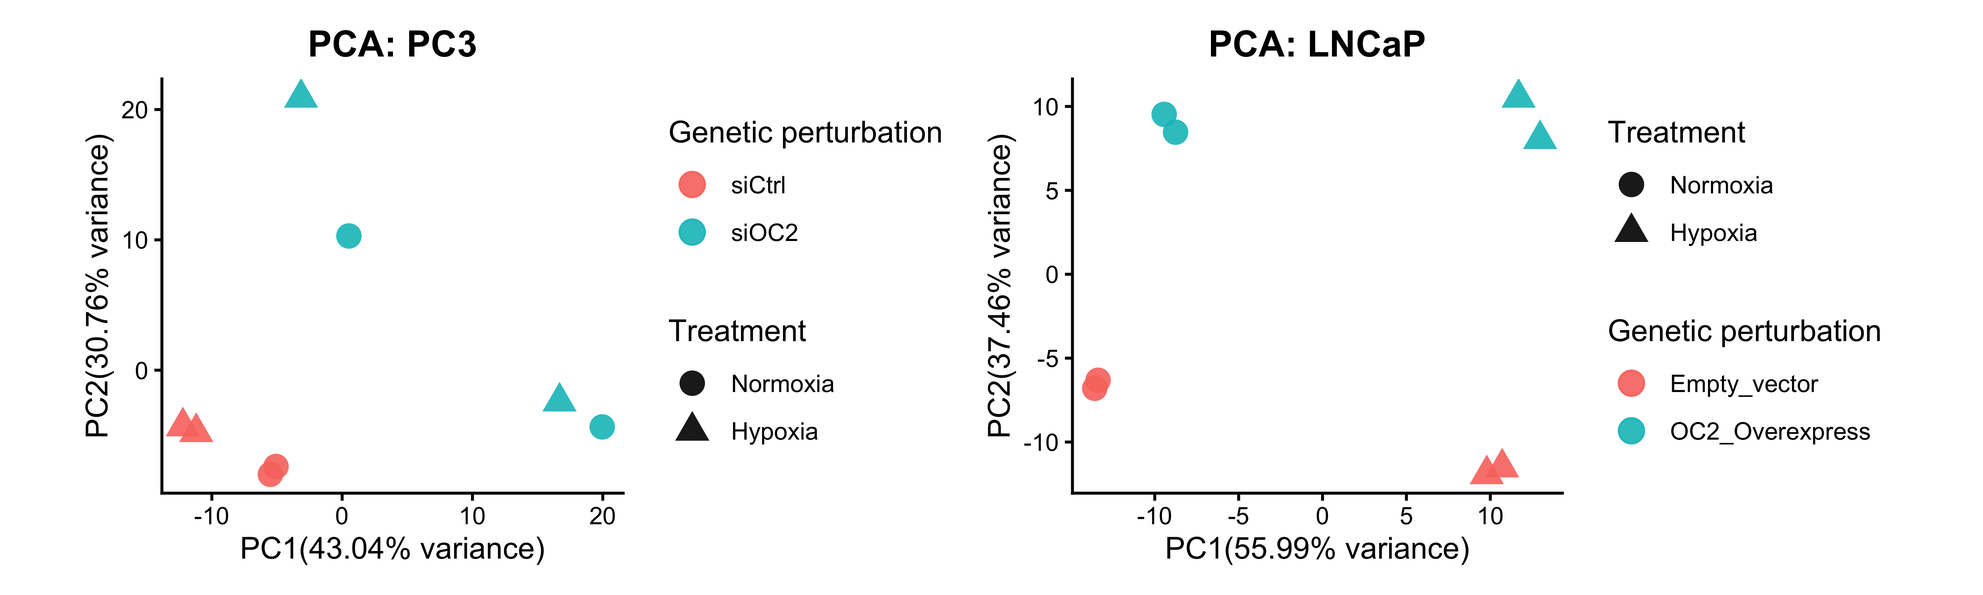
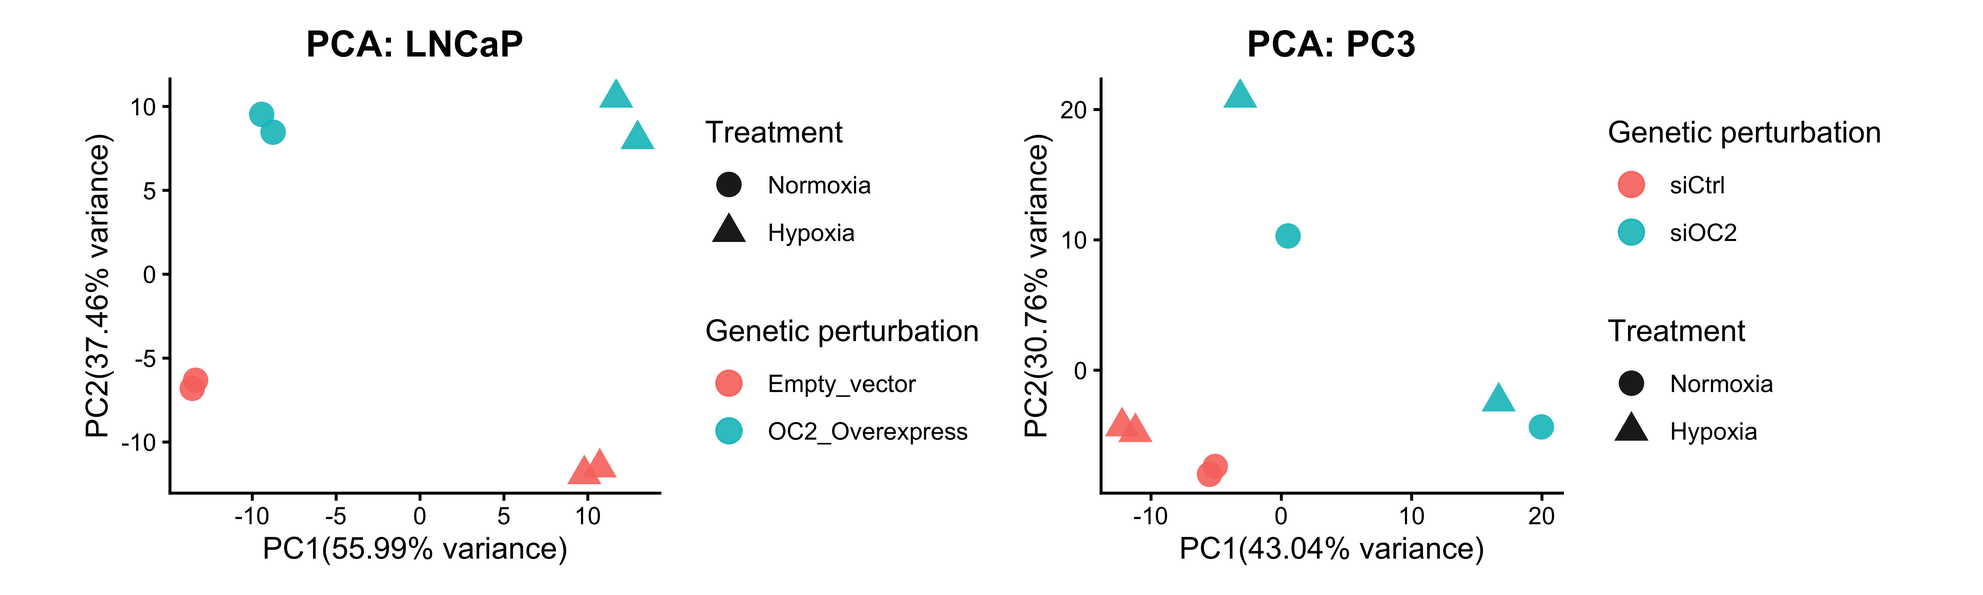
"results and volcano plot"

diff --git a/DGEs_Deseq2.html b/DGEs_Deseq2.html
@@ -7,7 +7,7 @@
 <meta name="viewport" content="width=device-width, initial-scale=1.0, user-scalable=yes">
 
 <meta name="author" content="Nitin Beesabathuni">
-<meta name="dcterms.date" content="2026-01-26">
+<meta name="dcterms.date" content="2026-01-28">
 
 <title>Differential Gene expression analysis using Deseq2</title>
 <style>
@@ -110,7 +110,7 @@ pre > code.sourceCode > span > a:first-child::before { text-decoration: underlin
     <div>
     <div class="quarto-title-meta-heading">Published</div>
     <div class="quarto-title-meta-contents">
-      <p class="date">January 26, 2026</p>
+      <p class="date">January 28, 2026</p>
     </div>
   </div>
   
@@ -140,13 +140,14 @@ pre > code.sourceCode > span > a:first-child::before { text-decoration: underlin
 <span id="cb1-12"><a href="#cb1-12" aria-hidden="true" tabindex="-1"></a><span class="fu">library</span>(RColorBrewer)</span>
 <span id="cb1-13"><a href="#cb1-13" aria-hidden="true" tabindex="-1"></a><span class="fu">library</span>(patchwork)</span>
 <span id="cb1-14"><a href="#cb1-14" aria-hidden="true" tabindex="-1"></a><span class="fu">library</span>(ggplotify)</span>
-<span id="cb1-15"><a href="#cb1-15" aria-hidden="true" tabindex="-1"></a><span class="co"># Resolve namespace conflicts</span></span>
-<span id="cb1-16"><a href="#cb1-16" aria-hidden="true" tabindex="-1"></a><span class="fu">conflict_prefer</span>(<span class="st">"select"</span>, <span class="st">"dplyr"</span>)</span>
-<span id="cb1-17"><a href="#cb1-17" aria-hidden="true" tabindex="-1"></a><span class="fu">conflict_prefer</span>(<span class="st">"filter"</span>, <span class="st">"dplyr"</span>)</span>
-<span id="cb1-18"><a href="#cb1-18" aria-hidden="true" tabindex="-1"></a><span class="fu">conflicts_prefer</span>(generics<span class="sc">::</span>setdiff)</span>
-<span id="cb1-19"><a href="#cb1-19" aria-hidden="true" tabindex="-1"></a></span>
-<span id="cb1-20"><a href="#cb1-20" aria-hidden="true" tabindex="-1"></a><span class="co">#loading functions</span></span>
-<span id="cb1-21"><a href="#cb1-21" aria-hidden="true" tabindex="-1"></a><span class="fu">source</span>(<span class="st">"functions.R"</span>)</span></code></pre></div><button title="Copy to Clipboard" class="code-copy-button"><i class="bi"></i></button></div>
+<span id="cb1-15"><a href="#cb1-15" aria-hidden="true" tabindex="-1"></a><span class="fu">library</span>(patchwork)</span>
+<span id="cb1-16"><a href="#cb1-16" aria-hidden="true" tabindex="-1"></a><span class="co"># Resolve namespace conflicts</span></span>
+<span id="cb1-17"><a href="#cb1-17" aria-hidden="true" tabindex="-1"></a><span class="fu">conflict_prefer</span>(<span class="st">"select"</span>, <span class="st">"dplyr"</span>)</span>
+<span id="cb1-18"><a href="#cb1-18" aria-hidden="true" tabindex="-1"></a><span class="fu">conflict_prefer</span>(<span class="st">"filter"</span>, <span class="st">"dplyr"</span>)</span>
+<span id="cb1-19"><a href="#cb1-19" aria-hidden="true" tabindex="-1"></a><span class="fu">conflicts_prefer</span>(generics<span class="sc">::</span>setdiff)</span>
+<span id="cb1-20"><a href="#cb1-20" aria-hidden="true" tabindex="-1"></a></span>
+<span id="cb1-21"><a href="#cb1-21" aria-hidden="true" tabindex="-1"></a><span class="co">#loading functions</span></span>
+<span id="cb1-22"><a href="#cb1-22" aria-hidden="true" tabindex="-1"></a><span class="fu">source</span>(<span class="st">"functions.R"</span>)</span></code></pre></div><button title="Copy to Clipboard" class="code-copy-button"><i class="bi"></i></button></div>
 </details>
 </div>
 <section id="data-import-and-metadata-preparation" class="level2">
@@ -231,7 +232,7 @@ pre > code.sourceCode > span > a:first-child::before { text-decoration: underlin
 <details class="code-fold">
 <summary>Code</summary>
 <div class="code-copy-outer-scaffold"><div class="sourceCode cell-code" id="cb7"><pre class="sourceCode r code-with-copy"><code class="sourceCode r"><span id="cb7-1"><a href="#cb7-1" aria-hidden="true" tabindex="-1"></a><span class="co">#PCA for both the cell lines across two treatments and genetic perturbations. </span></span>
-<span id="cb7-2"><a href="#cb7-2" aria-hidden="true" tabindex="-1"></a>pc3_QC<span class="sc">$</span>pca <span class="sc">+</span> lncap_QC<span class="sc">$</span>pca</span></code></pre></div><button title="Copy to Clipboard" class="code-copy-button"><i class="bi"></i></button></div>
+<span id="cb7-2"><a href="#cb7-2" aria-hidden="true" tabindex="-1"></a>lncap_QC<span class="sc">$</span>pca<span class="sc">+</span> pc3_QC<span class="sc">$</span>pca </span></code></pre></div><button title="Copy to Clipboard" class="code-copy-button"><i class="bi"></i></button></div>
 </details>
 <div class="cell-output-display">
 <div>
@@ -241,28 +242,220 @@ pre > code.sourceCode > span > a:first-child::before { text-decoration: underlin
 </div>
 </div>
 </div>
-<p>PC1 explains ~56% of the variance which differentiates treatment effects. While, PC2 explains about ~37% and explains the effect of over expression of OC2. As expected, the replicates cluster closely indicating no extreme outlier samples or technical artifacts.</p>
+<p>For LNCaP cells, we nicley see the four cluster based on the treatment-genetic perturbation. Moreover, PC1 explains ~56% of the variance which differentiates treatment effects. While, PC2 explains about ~37% and explains the effect of over expression of OC2. So for these samples, we dont see any extreme outlier samples or technical artifacts.</p>
+<p>For PC3 samples, we see an interesting behavior. We see a strong separation between siCtrl and siOC2 samples but within siOC2 samples, we see two separate clusters. We can also see the siOC2 samples cluster together regardless of the treatment conditions. Lets examine the heatmap to see why there are two clusters within siOC2 samples.</p>
 <div class="cell">
 <details class="code-fold">
 <summary>Code</summary>
-<div class="code-copy-outer-scaffold"><div class="sourceCode cell-code" id="cb8"><pre class="sourceCode r code-with-copy"><code class="sourceCode r"><span id="cb8-1"><a href="#cb8-1" aria-hidden="true" tabindex="-1"></a><span class="co">#PCA for both the cell lines across two treatments and genetic perturbations. </span></span>
-<span id="cb8-2"><a href="#cb8-2" aria-hidden="true" tabindex="-1"></a>pc3_QC<span class="sc">$</span>heatmap <span class="sc">+</span> lncap_QC<span class="sc">$</span>heatmap</span></code></pre></div><button title="Copy to Clipboard" class="code-copy-button"><i class="bi"></i></button></div>
+<div class="code-copy-outer-scaffold"><div class="sourceCode cell-code" id="cb8"><pre class="sourceCode r code-with-copy"><code class="sourceCode r"><span id="cb8-1"><a href="#cb8-1" aria-hidden="true" tabindex="-1"></a><span class="co">#heatmap for pc3 cells</span></span>
+<span id="cb8-2"><a href="#cb8-2" aria-hidden="true" tabindex="-1"></a>pc3_QC<span class="sc">$</span>heatmap</span></code></pre></div><button title="Copy to Clipboard" class="code-copy-button"><i class="bi"></i></button></div>
 </details>
 <div class="cell-output-display">
 <div>
 <figure class="figure">
-<p><img src="DGEs_Deseq2_files/figure-html/unnamed-chunk-5-1.png" class="img-fluid figure-img" width="4500"></p>
+<p><img src="DGEs_Deseq2_files/figure-html/unnamed-chunk-5-1.png" class="img-fluid figure-img" width="2400"></p>
 </figure>
 </div>
 </div>
 </div>
+<p>Based on the heatmap, we see another latent variable- the siRNA used. We can see the siRNA specific samples cluster more strongly together regardless of the treatment. Theoretically, if the treatment effects are stronger we would expect the siRNA1 and siRNA2 to cluster together based on the treatment. However, we see a stronger correlation between the same siRNA’s used for knockdown of OC2 regardless of the treatment. This could perhaps be a result of knockdown of OC2 which rescues some aspects of hypoxia driven cellular changes (not fully). Moreover, we also see the siRNA’s under normoxia cluster separately so there could be some off target activity of the specific siRNA used to knockdown OC2.</p>
 <div class="cell">
 <details class="code-fold">
 <summary>Code</summary>
-<div class="code-copy-outer-scaffold"><div class="sourceCode cell-code" id="cb9"><pre class="sourceCode r code-with-copy"><code class="sourceCode r"><span id="cb9-1"><a href="#cb9-1" aria-hidden="true" tabindex="-1"></a><span class="co">#dds_lncap &lt;- DESeq(dds_lncap)</span></span></code></pre></div><button title="Copy to Clipboard" class="code-copy-button"><i class="bi"></i></button></div>
+<div class="code-copy-outer-scaffold"><div class="sourceCode cell-code" id="cb9"><pre class="sourceCode r code-with-copy"><code class="sourceCode r"><span id="cb9-1"><a href="#cb9-1" aria-hidden="true" tabindex="-1"></a><span class="co">#heatmap for lncap cells</span></span>
+<span id="cb9-2"><a href="#cb9-2" aria-hidden="true" tabindex="-1"></a>lncap_QC<span class="sc">$</span>heatmap</span></code></pre></div><button title="Copy to Clipboard" class="code-copy-button"><i class="bi"></i></button></div>
+</details>
+<div class="cell-output-display">
+<div>
+<figure class="figure">
+<p><img src="DGEs_Deseq2_files/figure-html/unnamed-chunk-6-1.png" class="img-fluid figure-img" width="2400"></p>
+</figure>
+</div>
+</div>
+</div>
+<p>For LNCaP cells, the replicates cluster together based on the treatment and genetic perturbation as expected.</p>
+<div class="cell">
+<details class="code-fold">
+<summary>Code</summary>
+<div class="code-copy-outer-scaffold"><div class="sourceCode cell-code" id="cb10"><pre class="sourceCode r code-with-copy"><code class="sourceCode r"><span id="cb10-1"><a href="#cb10-1" aria-hidden="true" tabindex="-1"></a><span class="co">#lets perform differential expression analysis using deseq2 to ask various questions. </span></span>
+<span id="cb10-2"><a href="#cb10-2" aria-hidden="true" tabindex="-1"></a><span class="co">#releveling to set reference for treatment and perturbation</span></span>
+<span id="cb10-3"><a href="#cb10-3" aria-hidden="true" tabindex="-1"></a>dds_pc3<span class="sc">$</span>Treatment <span class="ot">&lt;-</span> <span class="fu">relevel</span>(dds_pc3<span class="sc">$</span>Treatment, <span class="at">ref =</span> <span class="st">"Normoxia"</span>)</span>
+<span id="cb10-4"><a href="#cb10-4" aria-hidden="true" tabindex="-1"></a>dds_pc3<span class="sc">$</span>Genetic_perturbation <span class="ot">&lt;-</span> <span class="fu">relevel</span>(dds_pc3<span class="sc">$</span>Genetic_perturbation, <span class="at">ref =</span> <span class="st">"siCtrl"</span>)</span>
+<span id="cb10-5"><a href="#cb10-5" aria-hidden="true" tabindex="-1"></a></span>
+<span id="cb10-6"><a href="#cb10-6" aria-hidden="true" tabindex="-1"></a>dds_lncap<span class="sc">$</span>Treatment <span class="ot">&lt;-</span> <span class="fu">relevel</span>(dds_lncap<span class="sc">$</span>Treatment, <span class="at">ref =</span> <span class="st">"Normoxia"</span>)</span>
+<span id="cb10-7"><a href="#cb10-7" aria-hidden="true" tabindex="-1"></a>dds_lncap<span class="sc">$</span>Genetic_perturbation <span class="ot">&lt;-</span> <span class="fu">relevel</span>(dds_lncap<span class="sc">$</span>Genetic_perturbation, <span class="at">ref =</span> <span class="st">"Empty_vector"</span>)</span>
+<span id="cb10-8"><a href="#cb10-8" aria-hidden="true" tabindex="-1"></a></span>
+<span id="cb10-9"><a href="#cb10-9" aria-hidden="true" tabindex="-1"></a>dds_lncap <span class="ot">&lt;-</span> <span class="fu">DESeq</span>(dds_lncap)</span></code></pre></div><button title="Copy to Clipboard" class="code-copy-button"><i class="bi"></i></button></div>
+</details>
+<div class="cell-output cell-output-stderr">
+<pre><code>estimating size factors</code></pre>
+</div>
+<div class="cell-output cell-output-stderr">
+<pre><code>estimating dispersions</code></pre>
+</div>
+<div class="cell-output cell-output-stderr">
+<pre><code>gene-wise dispersion estimates</code></pre>
+</div>
+<div class="cell-output cell-output-stderr">
+<pre><code>mean-dispersion relationship</code></pre>
+</div>
+<div class="cell-output cell-output-stderr">
+<pre><code>final dispersion estimates</code></pre>
+</div>
+<div class="cell-output cell-output-stderr">
+<pre><code>fitting model and testing</code></pre>
+</div>
+<details class="code-fold">
+<summary>Code</summary>
+<div class="code-copy-outer-scaffold"><div class="sourceCode cell-code" id="cb17"><pre class="sourceCode r code-with-copy"><code class="sourceCode r"><span id="cb17-1"><a href="#cb17-1" aria-hidden="true" tabindex="-1"></a>dds_pc3<span class="ot">&lt;-</span><span class="fu">DESeq</span>(dds_pc3)</span></code></pre></div><button title="Copy to Clipboard" class="code-copy-button"><i class="bi"></i></button></div>
+</details>
+<div class="cell-output cell-output-stderr">
+<pre><code>estimating size factors</code></pre>
+</div>
+<div class="cell-output cell-output-stderr">
+<pre><code>estimating dispersions</code></pre>
+</div>
+<div class="cell-output cell-output-stderr">
+<pre><code>gene-wise dispersion estimates</code></pre>
+</div>
+<div class="cell-output cell-output-stderr">
+<pre><code>mean-dispersion relationship</code></pre>
+</div>
+<div class="cell-output cell-output-stderr">
+<pre><code>final dispersion estimates</code></pre>
+</div>
+<div class="cell-output cell-output-stderr">
+<pre><code>fitting model and testing</code></pre>
+</div>
+</div>
+<p>You can see various steps that are performed by this function. Briefly,</p>
+<p>1) We normalize each sample with their respective size factors calculated by using median of ratios method.</p>
+<p>2) As the</p>
+<div class="cell">
+<details class="code-fold">
+<summary>Code</summary>
+<div class="code-copy-outer-scaffold"><div class="sourceCode cell-code" id="cb24"><pre class="sourceCode r code-with-copy"><code class="sourceCode r"><span id="cb24-1"><a href="#cb24-1" aria-hidden="true" tabindex="-1"></a><span class="co"># Set the graphics device to 1 row and 2 columns</span></span>
+<span id="cb24-2"><a href="#cb24-2" aria-hidden="true" tabindex="-1"></a><span class="fu">par</span>(<span class="at">mfrow =</span> <span class="fu">c</span>(<span class="dv">1</span>, <span class="dv">2</span>))</span>
+<span id="cb24-3"><a href="#cb24-3" aria-hidden="true" tabindex="-1"></a></span>
+<span id="cb24-4"><a href="#cb24-4" aria-hidden="true" tabindex="-1"></a><span class="co"># Plot for LNCaP with a custom title</span></span>
+<span id="cb24-5"><a href="#cb24-5" aria-hidden="true" tabindex="-1"></a><span class="fu">plotDispEsts</span>(dds_lncap, <span class="at">main =</span> <span class="st">"Dispersion Estimates: LNCaP"</span>)</span>
+<span id="cb24-6"><a href="#cb24-6" aria-hidden="true" tabindex="-1"></a></span>
+<span id="cb24-7"><a href="#cb24-7" aria-hidden="true" tabindex="-1"></a><span class="co"># Plot for PC3 with a custom title</span></span>
+<span id="cb24-8"><a href="#cb24-8" aria-hidden="true" tabindex="-1"></a><span class="fu">plotDispEsts</span>(dds_pc3, <span class="at">main =</span> <span class="st">"Dispersion Estimates: PC3"</span>)</span></code></pre></div><button title="Copy to Clipboard" class="code-copy-button"><i class="bi"></i></button></div>
+</details>
+<div class="cell-output-display">
+<div>
+<figure class="figure">
+<p><img src="DGEs_Deseq2_files/figure-html/unnamed-chunk-8-1.png" class="img-fluid figure-img" width="3600"></p>
+</figure>
+</div>
+</div>
+<details class="code-fold">
+<summary>Code</summary>
+<div class="code-copy-outer-scaffold"><div class="sourceCode cell-code" id="cb25"><pre class="sourceCode r code-with-copy"><code class="sourceCode r"><span id="cb25-1"><a href="#cb25-1" aria-hidden="true" tabindex="-1"></a><span class="co"># Reset the graphics device to default (1x1)</span></span>
+<span id="cb25-2"><a href="#cb25-2" aria-hidden="true" tabindex="-1"></a><span class="fu">par</span>(<span class="at">mfrow =</span> <span class="fu">c</span>(<span class="dv">1</span>, <span class="dv">1</span>))</span></code></pre></div><button title="Copy to Clipboard" class="code-copy-button"><i class="bi"></i></button></div>
 </details>
 </div>
-<p><code>{#its important to normaize the samples based on their seqeuncing depth and RNA composition} #Deseq2 uses median of ratio normalization method. It first calculates size factors for each sample and normalizes the counts for each sample.</code></p>
+<p>The fit looks good. We can see the fitted (Red) smoothly follows the data points and shrinkage in dispersion (blue dots) towards fitted curve nicely. Also, notice a nice downward trend in dispersion as mean increases. You can observe some final dispersion and estimated values perfectly overlap these are genes that are shrunk as they are too far away from the fitted line.</p>
+<div class="cell">
+<details class="code-fold">
+<summary>Code</summary>
+<div class="code-copy-outer-scaffold"><div class="sourceCode cell-code" id="cb26"><pre class="sourceCode r code-with-copy"><code class="sourceCode r"><span id="cb26-1"><a href="#cb26-1" aria-hidden="true" tabindex="-1"></a><span class="co">#lets understand the genes that are differential expressed under hypoxia condition. </span></span>
+<span id="cb26-2"><a href="#cb26-2" aria-hidden="true" tabindex="-1"></a><span class="co"># PC3: Hypoxia vs Normoxia (within siCtrl)</span></span>
+<span id="cb26-3"><a href="#cb26-3" aria-hidden="true" tabindex="-1"></a>res_pc3_hypoxia <span class="ot">&lt;-</span> <span class="fu">results</span>(dds_pc3, </span>
+<span id="cb26-4"><a href="#cb26-4" aria-hidden="true" tabindex="-1"></a>                           <span class="at">contrast =</span> <span class="fu">c</span>(<span class="st">"Treatment"</span>, <span class="st">"Hypoxia"</span>, <span class="st">"Normoxia"</span>))</span>
+<span id="cb26-5"><a href="#cb26-5" aria-hidden="true" tabindex="-1"></a></span>
+<span id="cb26-6"><a href="#cb26-6" aria-hidden="true" tabindex="-1"></a><span class="co"># LNCaP: Hypoxia vs Normoxia (within empty vector)</span></span>
+<span id="cb26-7"><a href="#cb26-7" aria-hidden="true" tabindex="-1"></a>res_lncap_hypoxia <span class="ot">&lt;-</span> <span class="fu">results</span>(dds_lncap, </span>
+<span id="cb26-8"><a href="#cb26-8" aria-hidden="true" tabindex="-1"></a>                             <span class="at">contrast =</span> <span class="fu">c</span>(<span class="st">"Treatment"</span>, <span class="st">"Hypoxia"</span>, <span class="st">"Normoxia"</span>))</span></code></pre></div><button title="Copy to Clipboard" class="code-copy-button"><i class="bi"></i></button></div>
+</details>
+</div>
+<div class="cell">
+<details class="code-fold">
+<summary>Code</summary>
+<div class="code-copy-outer-scaffold"><div class="sourceCode cell-code" id="cb27"><pre class="sourceCode r code-with-copy"><code class="sourceCode r"><span id="cb27-1"><a href="#cb27-1" aria-hidden="true" tabindex="-1"></a><span class="fu">library</span>(EnhancedVolcano)</span></code></pre></div><button title="Copy to Clipboard" class="code-copy-button"><i class="bi"></i></button></div>
+</details>
+<div class="cell-output cell-output-stderr">
+<pre><code>Loading required package: ggrepel</code></pre>
+</div>
+<details class="code-fold">
+<summary>Code</summary>
+<div class="code-copy-outer-scaffold"><div class="sourceCode cell-code" id="cb29"><pre class="sourceCode r code-with-copy"><code class="sourceCode r"><span id="cb29-1"><a href="#cb29-1" aria-hidden="true" tabindex="-1"></a><span class="co"># Function to generate consistent volcano plots</span></span>
+<span id="cb29-2"><a href="#cb29-2" aria-hidden="true" tabindex="-1"></a>plot_volcano <span class="ot">&lt;-</span> <span class="cf">function</span>(res, title_str) {</span>
+<span id="cb29-3"><a href="#cb29-3" aria-hidden="true" tabindex="-1"></a>  <span class="co"># Convert to data frame to handle logical indexing</span></span>
+<span id="cb29-4"><a href="#cb29-4" aria-hidden="true" tabindex="-1"></a>  df <span class="ot">&lt;-</span> <span class="fu">as.data.frame</span>(res)</span>
+<span id="cb29-5"><a href="#cb29-5" aria-hidden="true" tabindex="-1"></a>  </span>
+<span id="cb29-6"><a href="#cb29-6" aria-hidden="true" tabindex="-1"></a>  <span class="co"># Create a custom color vector</span></span>
+<span id="cb29-7"><a href="#cb29-7" aria-hidden="true" tabindex="-1"></a>  keyvals <span class="ot">&lt;-</span> <span class="fu">ifelse</span>(</span>
+<span id="cb29-8"><a href="#cb29-8" aria-hidden="true" tabindex="-1"></a>    df<span class="sc">$</span>padj <span class="sc">&lt;</span> <span class="fl">0.05</span> <span class="sc">&amp;</span> df<span class="sc">$</span>log2FoldChange <span class="sc">&gt;</span> <span class="fl">1.0</span>, <span class="st">'red3'</span>,</span>
+<span id="cb29-9"><a href="#cb29-9" aria-hidden="true" tabindex="-1"></a>      <span class="fu">ifelse</span>(df<span class="sc">$</span>padj <span class="sc">&lt;</span> <span class="fl">0.05</span> <span class="sc">&amp;</span> df<span class="sc">$</span>log2FoldChange <span class="sc">&lt;</span> <span class="sc">-</span><span class="fl">1.0</span>, <span class="st">'royalblue'</span>,</span>
+<span id="cb29-10"><a href="#cb29-10" aria-hidden="true" tabindex="-1"></a>        <span class="st">'grey'</span>))</span>
+<span id="cb29-11"><a href="#cb29-11" aria-hidden="true" tabindex="-1"></a>  <span class="co">#Convert any remaining NAs to 'grey'</span></span>
+<span id="cb29-12"><a href="#cb29-12" aria-hidden="true" tabindex="-1"></a>  keyvals[<span class="fu">is.na</span>(keyvals)] <span class="ot">&lt;-</span> <span class="st">'grey'</span></span>
+<span id="cb29-13"><a href="#cb29-13" aria-hidden="true" tabindex="-1"></a>  </span>
+<span id="cb29-14"><a href="#cb29-14" aria-hidden="true" tabindex="-1"></a>  <span class="co"># Ensure the vector has names for the legend</span></span>
+<span id="cb29-15"><a href="#cb29-15" aria-hidden="true" tabindex="-1"></a>  <span class="fu">names</span>(keyvals)[keyvals <span class="sc">==</span> <span class="st">'red3'</span>] <span class="ot">&lt;-</span> <span class="st">'Upregulated'</span></span>
+<span id="cb29-16"><a href="#cb29-16" aria-hidden="true" tabindex="-1"></a>  <span class="fu">names</span>(keyvals)[keyvals <span class="sc">==</span> <span class="st">'grey'</span>] <span class="ot">&lt;-</span> <span class="st">'NS / Low Fold'</span></span>
+<span id="cb29-17"><a href="#cb29-17" aria-hidden="true" tabindex="-1"></a>  <span class="fu">names</span>(keyvals)[keyvals <span class="sc">==</span> <span class="st">'royalblue'</span>] <span class="ot">&lt;-</span> <span class="st">'Downregulated'</span></span>
+<span id="cb29-18"><a href="#cb29-18" aria-hidden="true" tabindex="-1"></a></span>
+<span id="cb29-19"><a href="#cb29-19" aria-hidden="true" tabindex="-1"></a>  <span class="fu">EnhancedVolcano</span>(res,</span>
+<span id="cb29-20"><a href="#cb29-20" aria-hidden="true" tabindex="-1"></a>    <span class="at">lab =</span> <span class="fu">rownames</span>(res),</span>
+<span id="cb29-21"><a href="#cb29-21" aria-hidden="true" tabindex="-1"></a>    <span class="at">x =</span> <span class="st">'log2FoldChange'</span>,</span>
+<span id="cb29-22"><a href="#cb29-22" aria-hidden="true" tabindex="-1"></a>    <span class="at">y =</span> <span class="st">'padj'</span>, </span>
+<span id="cb29-23"><a href="#cb29-23" aria-hidden="true" tabindex="-1"></a>    <span class="at">title =</span> title_str,</span>
+<span id="cb29-24"><a href="#cb29-24" aria-hidden="true" tabindex="-1"></a>    <span class="at">subtitle =</span> <span class="cn">NULL</span>,      <span class="co"># Removes the "EnhancedVolcano" subtitle</span></span>
+<span id="cb29-25"><a href="#cb29-25" aria-hidden="true" tabindex="-1"></a>    <span class="at">caption =</span> <span class="cn">NULL</span>,       <span class="co"># Removes the "total variables" footer</span></span>
+<span id="cb29-26"><a href="#cb29-26" aria-hidden="true" tabindex="-1"></a>    <span class="at">ylab =</span> <span class="fu">bquote</span>(<span class="sc">~-</span>Log[<span class="dv">10</span>] <span class="sc">~</span> <span class="fu">italic</span>(padj)), <span class="co"># Corrects the axis label</span></span>
+<span id="cb29-27"><a href="#cb29-27" aria-hidden="true" tabindex="-1"></a>    <span class="at">pCutoff =</span> <span class="fl">0.05</span>,</span>
+<span id="cb29-28"><a href="#cb29-28" aria-hidden="true" tabindex="-1"></a>    <span class="at">FCcutoff =</span> <span class="fl">1.0</span>, </span>
+<span id="cb29-29"><a href="#cb29-29" aria-hidden="true" tabindex="-1"></a>    <span class="at">colCustom =</span> keyvals, <span class="co"># Use the custom color vector</span></span>
+<span id="cb29-30"><a href="#cb29-30" aria-hidden="true" tabindex="-1"></a>    <span class="at">labSize =</span> <span class="fl">4.0</span>,</span>
+<span id="cb29-31"><a href="#cb29-31" aria-hidden="true" tabindex="-1"></a>    <span class="at">colAlpha =</span> <span class="fl">0.6</span>,</span>
+<span id="cb29-32"><a href="#cb29-32" aria-hidden="true" tabindex="-1"></a>    <span class="at">legendPosition =</span> <span class="st">'right'</span>,</span>
+<span id="cb29-33"><a href="#cb29-33" aria-hidden="true" tabindex="-1"></a>    <span class="at">drawConnectors =</span> <span class="cn">TRUE</span>,</span>
+<span id="cb29-34"><a href="#cb29-34" aria-hidden="true" tabindex="-1"></a>    <span class="at">widthConnectors =</span> <span class="fl">0.5</span></span>
+<span id="cb29-35"><a href="#cb29-35" aria-hidden="true" tabindex="-1"></a>  )</span>
+<span id="cb29-36"><a href="#cb29-36" aria-hidden="true" tabindex="-1"></a>}</span>
+<span id="cb29-37"><a href="#cb29-37" aria-hidden="true" tabindex="-1"></a></span>
+<span id="cb29-38"><a href="#cb29-38" aria-hidden="true" tabindex="-1"></a><span class="co"># Generate plots for both cell lines</span></span>
+<span id="cb29-39"><a href="#cb29-39" aria-hidden="true" tabindex="-1"></a>v_pc3 <span class="ot">&lt;-</span> <span class="fu">plot_volcano</span>(res_pc3_hypoxia, <span class="st">"PC3: Hypoxia vs Normoxia (siCtrl)"</span>)</span></code></pre></div><button title="Copy to Clipboard" class="code-copy-button"><i class="bi"></i></button></div>
+</details>
+<div class="cell-output cell-output-stderr">
+<pre><code>Warning: Using `size` aesthetic for lines was deprecated in ggplot2 3.4.0.
+ℹ Please use `linewidth` instead.
+ℹ The deprecated feature was likely used in the EnhancedVolcano package.
+  Please report the issue to the authors.</code></pre>
+</div>
+<div class="cell-output cell-output-stderr">
+<pre><code>Warning: The `size` argument of `element_line()` is deprecated as of ggplot2 3.4.0.
+ℹ Please use the `linewidth` argument instead.
+ℹ The deprecated feature was likely used in the EnhancedVolcano package.
+  Please report the issue to the authors.</code></pre>
+</div>
+<details class="code-fold">
+<summary>Code</summary>
+<div class="code-copy-outer-scaffold"><div class="sourceCode cell-code" id="cb32"><pre class="sourceCode r code-with-copy"><code class="sourceCode r"><span id="cb32-1"><a href="#cb32-1" aria-hidden="true" tabindex="-1"></a>v_lncap <span class="ot">&lt;-</span> <span class="fu">plot_volcano</span>(res_lncap_hypoxia, <span class="st">"LNCaP: Hypoxia vs Normoxia (Empty vector)"</span>)</span>
+<span id="cb32-2"><a href="#cb32-2" aria-hidden="true" tabindex="-1"></a></span>
+<span id="cb32-3"><a href="#cb32-3" aria-hidden="true" tabindex="-1"></a><span class="co"># Display side-by-side using patchwork</span></span>
+<span id="cb32-4"><a href="#cb32-4" aria-hidden="true" tabindex="-1"></a></span>
+<span id="cb32-5"><a href="#cb32-5" aria-hidden="true" tabindex="-1"></a>v_pc3 <span class="sc">+</span>v_lncap</span></code></pre></div><button title="Copy to Clipboard" class="code-copy-button"><i class="bi"></i></button></div>
+</details>
+<div class="cell-output cell-output-stderr">
+<pre><code>Warning: ggrepel: 277 unlabeled data points (too many overlaps). Consider
+increasing max.overlaps</code></pre>
+</div>
+<div class="cell-output cell-output-stderr">
+<pre><code>Warning: ggrepel: 1654 unlabeled data points (too many overlaps). Consider
+increasing max.overlaps</code></pre>
+</div>
+<div class="cell-output-display">
+<div>
+<figure class="figure">
+<p><img src="DGEs_Deseq2_files/figure-html/unnamed-chunk-10-1.png" class="img-fluid figure-img" width="6000"></p>
+</figure>
+</div>
+</div>
+</div>
 </section>
 
 </main>
